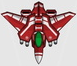
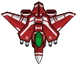
Ajout du background et de l'image vaisseau principale

diff --git a/src/v0/Space.java b/src/v0/Space.java
@@ -5,6 +5,7 @@ import java.awt.event.ActionEvent;
 import java.awt.event.ActionListener;
 import java.awt.event.KeyEvent;
 import java.awt.event.KeyListener;
+import java.io.IOException;
 import java.util.ArrayList;
 import java.util.Collections;
 import java.util.HashSet;
@@ -18,15 +19,12 @@ import javax.swing.JFrame;
 import v0.Element.movement;
 
 
-public class Space extends JComponent implements ActionListener,KeyListener{
+public class Space extends JComponent implements KeyListener{
 	/**
 	 * 
 	 */
 	private static final long serialVersionUID = 1L;
 	Set <Element> contents = Collections.synchronizedSet(new HashSet<Element>());
-	
-	java.awt.Button RightButton;
-	java.awt.Button LeftButton;
 
 	void addElement(Element anElement) {
 		contents.add(anElement);
@@ -38,6 +36,7 @@ public class Space extends JComponent implements ActionListener,KeyListener{
 
 	public void paint(Graphics g) {
 		super.paint(g);
+		drawBackground(g);
 		Iterator<Element> itor = this.elementIterator();
 		while (itor.hasNext()) {
 			itor.next().drawOn(g);
@@ -66,13 +65,17 @@ public class Space extends JComponent implements ActionListener,KeyListener{
 		window.addKeyListener(this);
 		new GestFenetre(window);
 		Universe.addSpace(this);
+	}
+	
+	public void drawBackground(Graphics g){
+		try {
+			ImagePanel imgp = new ImagePanel("./img/background.jpg");
+			imgp.paintComponent(g);
+		} catch (IOException e) {
+			// TODO Auto-generated catch block
+			e.printStackTrace();
+		}
 		
-		RightButton = new java.awt.Button("Right");
-		LeftButton = new java.awt.Button("Left");
-  	    RightButton.addActionListener(this);
-  	    LeftButton.addActionListener(this);
-		add(RightButton);
-		add(LeftButton);
 	}
 
 	@Override
@@ -110,23 +113,5 @@ public class Space extends JComponent implements ActionListener,KeyListener{
 		
 	}
 
-	@Override
-	public void actionPerformed(ActionEvent e) {
-		// TODO Auto-generated method stub
-		Object object = e.getSource();
-		boolean trouvee = false;
-		Element elem = null;
-		
-		Iterator<Element> iter = elementIterator();
-		while(iter.hasNext() && (!trouvee)){
-			elem = iter.next();
-			if(elem.isDefender())trouvee = true;
-		}
-		
-		if (object.equals(RightButton))
-			if(elem.getX()>50)elem.move(movement.LEFT);
-		else if (object.equals(LeftButton)) 
-			if(elem.getX()<650)elem.move(movement.RIGHT);
-	}
 	
 }

diff --git a/src/v0/ImagePanel.java b/src/v0/ImagePanel.java
@@ -19,4 +19,8 @@ public class ImagePanel extends JPanel{
 		super.paintComponent(g);
 		g.drawImage(image, (int)d, (int)e, (int)f, (int)h, null); 
 	}
+	protected void paintComponent(Graphics g) {
+		super.paintComponent(g);
+		g.drawImage(image,0,0,null); 
+	}
 }

diff --git a/src/v0/Defender.java b/src/v0/Defender.java
@@ -13,7 +13,7 @@ public class Defender extends Element{
 		this.height = 75;
 		this.speed = 15;
 		this.setPosition(p);
-		this.setImage("./img/mechant03.png");
+		this.setImage("./img/vaisseau.png");
 	}
 	
 	public void fire(){
